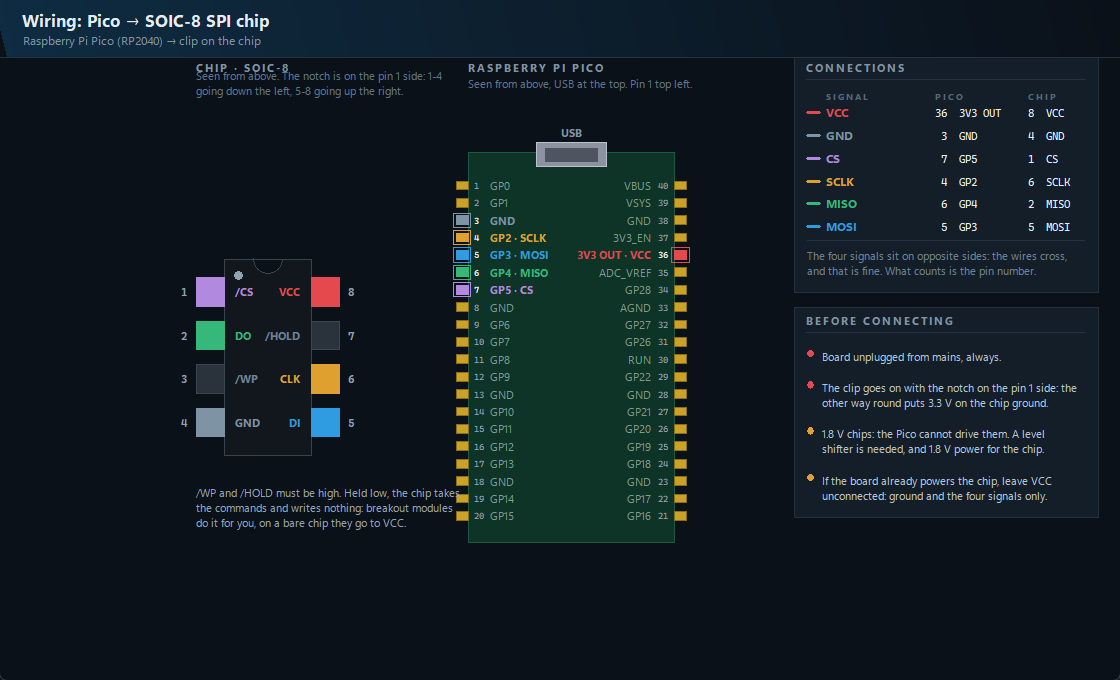
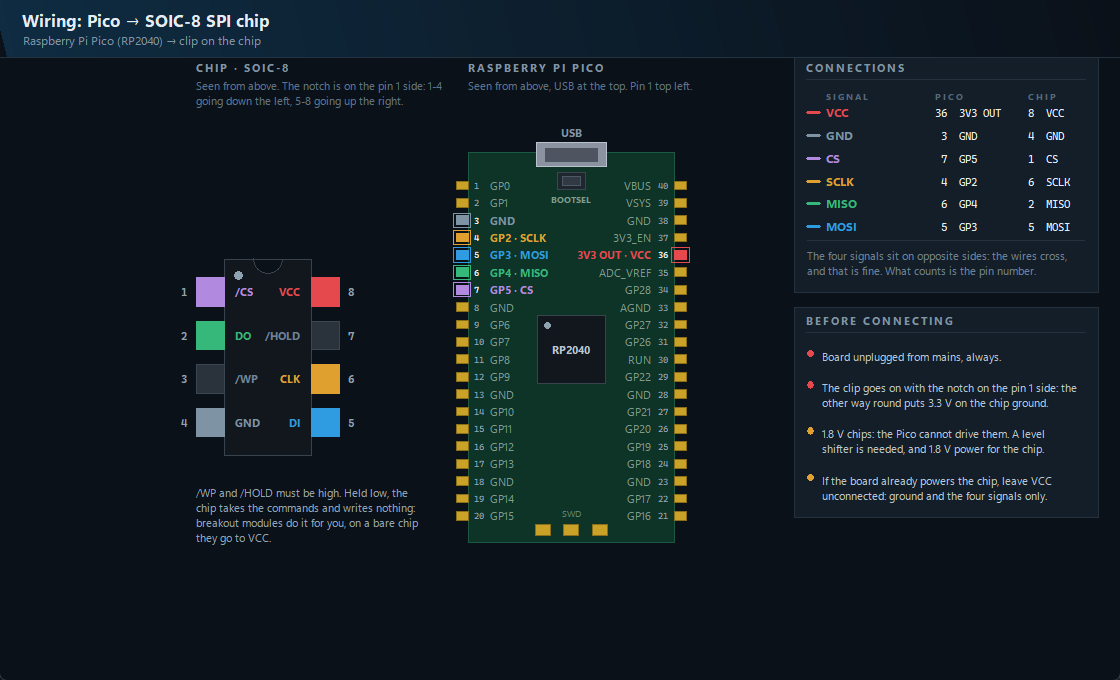
Draw the chip on the Pico, and unpick the overlapping text in the diagrams
Pin numbers do not tell you which way up a board is, and upside down
they are mirrored — so the Pico is now drawn with the parts you actually
look at: the USB connector, the BOOTSEL button under it, the RP2040
square with its pin-1 dot, and the debug pads at the bottom edge. They
all sit in the narrow clear strip down the middle of the board: the pin
names are written inside it, and where the signal is appended
("GP2 · SCLK", "3V3 OUT · VCC") they reach almost to the centre. The
first attempt put the button on top of them.

The notes under the small headings were anchored at their centre, so the
first line of a two-line note climbed on top of the heading it belonged
to — visible in both wiring diagrams. Anchored top-left now.

In the search window the headings were centred over stretched columns,
so "Model" floated above the wrong one, and the voltages carried an
Italian decimal comma into the English interface.

And one real bug behind the screenshots: naming a board did not refresh
the port list, because the port had not changed — only its label. The
name you had just typed looked lost.

Screenshots retaken. 209 checks green (165 + 44).

diff --git a/schema.py b/schema.py
@@ -292,16 +292,19 @@ class Schema(tk.Toplevel):
 
         self._testo(PX0, TITOLO_Y, T.micro(self.L("sch_pico")), T.MUT,
                     self._car(7, True))
-        self._testo(PX0, NOTA_Y, self.L("sch_pico_nota"), "#5E7488", self._car(7),
-                    larghezza=230)
+        # ⚠ ancora "nw": col centraggio verticale la prima riga di una nota
+        # che va a capo sale SOPRA il punto dato, cioe' addosso al titolo.
+        self._testo(PX0, NOTA_Y - 4, self.L("sch_pico_nota"), "#5E7488",
+                    self._car(7), ancora="nw", larghezza=230)
 
         # circuito stampato
         self._rett(PX0, PY0, x1, y1, "#0E3428", "#1C5943")
-        # connettore USB, l'unico riferimento di verso che conta
+        # connettore USB, in cima
         self._rett(PX0 + 63, PY0 - 9, x1 - 63, PY0 + 13, "#8C93A0", "#B9C1CC")
         self._rett(PX0 + 71, PY0 - 4, x1 - 71, PY0 + 8, "#4E5561", "#4E5561")
         self._testo((PX0 + x1) / 2.0, PY0 - 19, "USB", T.MUT, self._car(7, True),
                     ancora="center")
+        self._componenti_pico(x1, y1)
 
         usati = {c[1]: c[0] for c in COLLEGAMENTI}
 
@@ -334,6 +337,48 @@ class Schema(tk.Toplevel):
                             colore or "#7E9C8C", self._car(7, bool(colore)),
                             ancora=ancora)
 
+    def _componenti_pico(self, x1, y1):
+        """I pezzi che si vedono sulla scheda vera, per capire il verso.
+
+        ⚠ Il connettore USB da solo non bastava: chi guarda il disegno non
+        sa se sta vedendo la scheda da sopra o da sotto, e i piedini sono
+        specchiati. Il chip quadrato in mezzo, il pulsante BOOTSEL sotto
+        l'USB e i contatti di servizio in fondo danno il verso che si ha
+        davanti tenendo la scheda in mano.
+
+        ⚠ Tutto sta nella STRISCIA CENTRALE libera. I nomi dei piedini sono
+        scritti dentro la scheda e, dove c'e' anche il segnale ("GP2 · SCLK",
+        "3V3 OUT · VCC"), arrivano quasi a meta': i pezzi vanno messi dove
+        quei nomi sono corti, o ci finiscono sopra. E' gia' successo.
+        """
+        cx = (PX0 + x1) / 2.0
+
+        # il pulsante BOOTSEL, subito sotto l'USB: righe 1-3 e 38-40, nomi corti
+        bx, by = cx, PY0 + 26
+        self._rett(bx - 13, by - 8, bx + 13, by + 8, "#20262E", "#3A4652")
+        self._rett(bx - 8, by - 4, bx + 8, by + 4, "#313943", "#4B5967")
+        self._testo(cx, by + 17, "BOOTSEL", "#7E9C8C", self._car(6, True),
+                    ancora="center")
+
+        # il chip: quadrato, in mezzo, dove i nomi accanto sono corti
+        lato = 62
+        qx0, qy0 = cx - lato / 2.0, PY0 + 150
+        self._rett(qx0, qy0, qx0 + lato, qy0 + lato, "#12171D", "#39434E")
+        # il puntino del piedino 1, in alto a sinistra come sul chip vero
+        px, py = self._s(qx0 + 9, qy0 + 9)
+        r = self._s(3)
+        self.tela.create_oval(px - r, py - r, px + r, py + r, fill="#8FA2B2",
+                              outline="")
+        self._testo(cx, qy0 + lato / 2.0, "RP2040", "#B9C7D3",
+                    self._car(7, True), ancora="center")
+
+        # i contatti di servizio (SWD) sul bordo di sotto
+        for indice in range(3):
+            sx = cx - 26 + indice * 26
+            self._rett(sx - 7, y1 - 16, sx + 7, y1 - 6, "#C9A227", "#8A6F1B")
+        self._testo(cx, y1 - 26, "SWD", "#5E8A72", self._car(6),
+                    ancora="center")
+
     # -- il connettore -----------------------------------------------------
     def _connettore(self):
         x0, x1 = CX[0] - CPAD - 9, CX[3] + CPAD + 9
@@ -341,8 +386,8 @@ class Schema(tk.Toplevel):
 
         self._testo(x0, TITOLO_Y, T.micro(self.L("sch_conn")), T.MUT,
                     self._car(7, True))
-        self._testo(x0, NOTA_Y, self.L("sch_conn_nota"), "#5E7488", self._car(7),
-                    larghezza=210)
+        self._testo(x0, NOTA_Y - 4, self.L("sch_conn_nota"), "#5E7488",
+                    self._car(7), ancora="nw", larghezza=210)
 
         self._rett(x0, y0, x1, y1, "#171E26", "#2E3A46")
         self._rett(x0 + 3, y0 + 3, x1 - 3, y1 - 3, "", "#0D131A")
@@ -397,8 +442,8 @@ class Schema(tk.Toplevel):
         y_fine = CHY0 + 3 * CHPASSO
         self._testo(CHX0 - CHPAD, TITOLO_Y, T.micro(self.L("sch_chip")), T.MUT,
                     self._car(7, True))
-        self._testo(CHX0 - CHPAD, NOTA_Y, self.L("sch_chip_nota"), "#5E7488",
-                    self._car(7), larghezza=230)
+        self._testo(CHX0 - CHPAD, NOTA_Y - 4, self.L("sch_chip_nota"),
+                    "#5E7488", self._car(7), ancora="nw", larghezza=230)
 
         # corpo del contenitore
         self._rett(CHX0, CHY0 - 30, CHX1, y_fine + 30, "#12171D", "#39434E")
@@ -438,7 +483,7 @@ class Schema(tk.Toplevel):
         # ⚠ /WP e /HOLD bassi = il chip accetta i comandi e non scrive niente.
         # E' lo stesso modo silenzioso di fallire della protezione in scrittura.
         self._testo(CHX0 - CHPAD, y_fine + 58, self.L("sch_wp_nota"), "#93A5B4",
-                    self._car(7), ancora="nw", larghezza=250)
+                    self._car(7), ancora="nw", larghezza=210)
 
     # -- i cavetti ---------------------------------------------------------
     def _fili(self):

diff --git a/ricerca.py b/ricerca.py
@@ -77,7 +77,10 @@ class Ricerca(tk.Toplevel):
                                           ("misura", 80, "e"),
                                           ("volt", 70, "e"),
                                           ("prove", 70, "center")):
-            self.lista.heading(chiave, text=T.micro(L("cerca_col_" + chiave)))
+            # ⚠ l'intestazione si allinea come la sua colonna: centrata su una
+            # colonna larga sembrava riferita a quella di fianco
+            self.lista.heading(chiave, text=T.micro(L("cerca_col_" + chiave)),
+                               anchor=ancora)
             self.lista.column(chiave, width=larghezza, anchor=ancora,
                               stretch=(chiave == "modello"))
         self.lista.grid(row=0, column=0, sticky="nsew")
@@ -140,9 +143,7 @@ class Ricerca(tk.Toplevel):
             self.lista.insert(
                 "", "end", iid=str(indice),
                 values=(chip.produttore, chip.nome, _misura(chip.kb),
-                        "1,8 V" if volt == V.BASSA
-                        else ("3,3 V" if volt else "?"),
-                        chip.prove or "—"),
+                        _volt(volt, self.L.codice), chip.prove or "—"),
                 tags=(etichetta,) if etichetta else ())
         self.var_conteggio.set(self.L("cerca_conteggio",
                                       quanti=len(self.mostrati),
@@ -171,6 +172,14 @@ class Ricerca(tk.Toplevel):
         chip = self.mostrati[indice]
         self.al_scegliere(chip)
         self.destroy()
+
+
+def _volt(volt, lingua="it"):
+    """1,8 V in italiano, 1.8 V in inglese: il separatore decimale cambia."""
+    if volt is None:
+        return "?"
+    testo = "%.1f V" % volt
+    return testo.replace(".", ",") if lingua == "it" else testo
 
 
 def _misura(kb):

diff --git a/tests/test_gui.py b/tests/test_gui.py
@@ -900,6 +900,31 @@ def prova(finestra):
         controlla("due fogli, non uno", pagina.count('class="foglio"') == 2)
         finestra_ad.destroy()
 
+
+        # 27. battezzata una scheda, la tendina lo deve MOSTRARE
+        # ⚠ La porta resta la stessa, ma la scritta no: prima restava esposta
+        # la vecchia descrizione di Windows e il nome dato sembrava perso.
+        vere_porte = modulo.serprog.elenca_porte
+        modulo.serprog.elenca_porte = lambda: [
+            ("COM9", "Dispositivo seriale USB (CAFE:4001)", True, "AABBCCDD")]
+        try:
+            finestra.rileva_porte()
+            prima_scritta = finestra.var_porta.get()
+            controlla("senza nome si vede la descrizione del sistema",
+                      "Dispositivo" in prima_scritta, prima_scritta)
+            finestra.schede_note.imposta_nome("banco di prova", run="AABBCCDD")
+            finestra.rileva_porte()
+            dopo = finestra.var_porta.get()
+            controlla("dato il nome, la tendina lo mostra subito",
+                      "banco di prova" in dopo, dopo)
+            controlla("e la porta scelta non cambia",
+                      finestra._porta_scelta() == "COM9",
+                      finestra._porta_scelta())
+            finestra.schede_note.imposta_nome("", run="AABBCCDD")
+        finally:
+            modulo.serprog.elenca_porte = vere_porte
+            finestra.rileva_porte()
+
         # 11. elenco porte
         finestra.rileva_porte()
         controlla("rilevamento porte non esplode", True,

diff --git a/app.py b/app.py
@@ -1393,6 +1393,14 @@ class App(tk.Tk):
             if (not attuale or attuale not in [p[0] for p in porte]
                     or (programmatori and attuale not in programmatori)):
                 self.var_porta.set(candidata)
+            else:
+                # ⚠ La porta e' la stessa ma la SCRITTA puo' essere cambiata:
+                # dopo aver battezzato una scheda restava esposta la vecchia
+                # descrizione di Windows, e il nome dato sembrava perso.
+                for valore, porta in zip(valori, porte):
+                    if porta[0] == attuale and valore != self.var_porta.get():
+                        self.var_porta.set(valore)
+                        break
         elif serprog.SERIALE:
             self.msg_collegamento.mostra("nessuna_porta", AMBRA)
 

diff --git a/i18n.py b/i18n.py
@@ -148,6 +148,7 @@ T = {
         "it": "Raspberry Pi Pico (RP2040) \u2192 pinza sul chip",
         "en": "Raspberry Pi Pico (RP2040) \u2192 clip on the chip",
     },
+    "sch_chip_scheda": {"it": "il chip", "en": "the chip"},
     "sch_chip": {"it": "Chip \u00b7 SOIC-8", "en": "Chip \u00b7 SOIC-8"},
     "sch_chip_nota": {
         "it": "Visto da sopra. La tacca \u00e8 dalla parte del piedino 1: "

diff --git a/README.md b/README.md
@@ -67,7 +67,10 @@ and what is inside — and writes the flashrom layout file for you.
 
 **Wiring diagram.** Drawn in code, so it scales without blurring and travels
 inside the executable. It shows both ends: which Pico pin goes to which header
-pad, with the pin-1 marker and the warnings that matter.
+pad, with the pin-1 marker and the warnings that matter. The Pico is drawn with
+the parts you actually look at to orient it — USB, the BOOTSEL button, the
+RP2040 square with its pin-1 dot, the debug pads — because pin numbers alone do
+not tell you which way up the board is, and upside down they are mirrored.
 
 ## Turning a bare RP2040 into the programmer
 
@@ -317,7 +320,7 @@ for it in the saved setting, inside itself, next to the executable, in
 ## Tests
 
 ```bash
-python tests\test_gui.py     # 162 checks, no hardware needed
+python tests\test_gui.py     # 165 checks, no hardware needed
 python tests\test_full.py    # 44 checks, needs flashrom built with 'dummy'
 ```
 

diff --git a/CHANGELOG.md b/CHANGELOG.md
@@ -98,6 +98,12 @@ failure that did not announce itself.
   the file it came from byte for byte.
 
 ### Fixed
+- **Naming a board now shows up in the port list straight away.** The port was
+  the same, so the label was left alone — and the name you had just typed
+  looked lost.
+- **Overlapping text in the diagrams.** The notes under the small headings were
+  anchored at their centre, so the first line of a wrapped note climbed on top
+  of the heading.
 - **A write-protected chip no longer looks like a successful write.** It
   accepts the erase and the write and stays as it was; the protection is now
   read with the chip and blocks the write when it covers the target.

diff --git a/tests/README.md b/tests/README.md
@@ -12,7 +12,7 @@ They open and close the window by themselves; there is nothing to click.
 
 *Versione italiana: [`docs/it/prove-LEGGIMI.md`](../docs/it/prove-LEGGIMI.md).*
 
-## `test_gui.py` — 162 checks
+## `test_gui.py` — 165 checks
 
 The window and its rules, without touching flashrom: construction, live
 IT↔EN switching, everything disabled when flashrom is missing, layout file

diff --git a/CONTRIBUTING.md b/CONTRIBUTING.md
@@ -18,7 +18,7 @@ Convenience is not a good enough reason.
 Run both test suites on Windows:
 
 ```bash
-python tests\test_gui.py        # 162 checks, no hardware
+python tests\test_gui.py        # 165 checks, no hardware
 python tests\test_full.py   # 44 checks, needs flashrom built with 'dummy'
 ```
 
